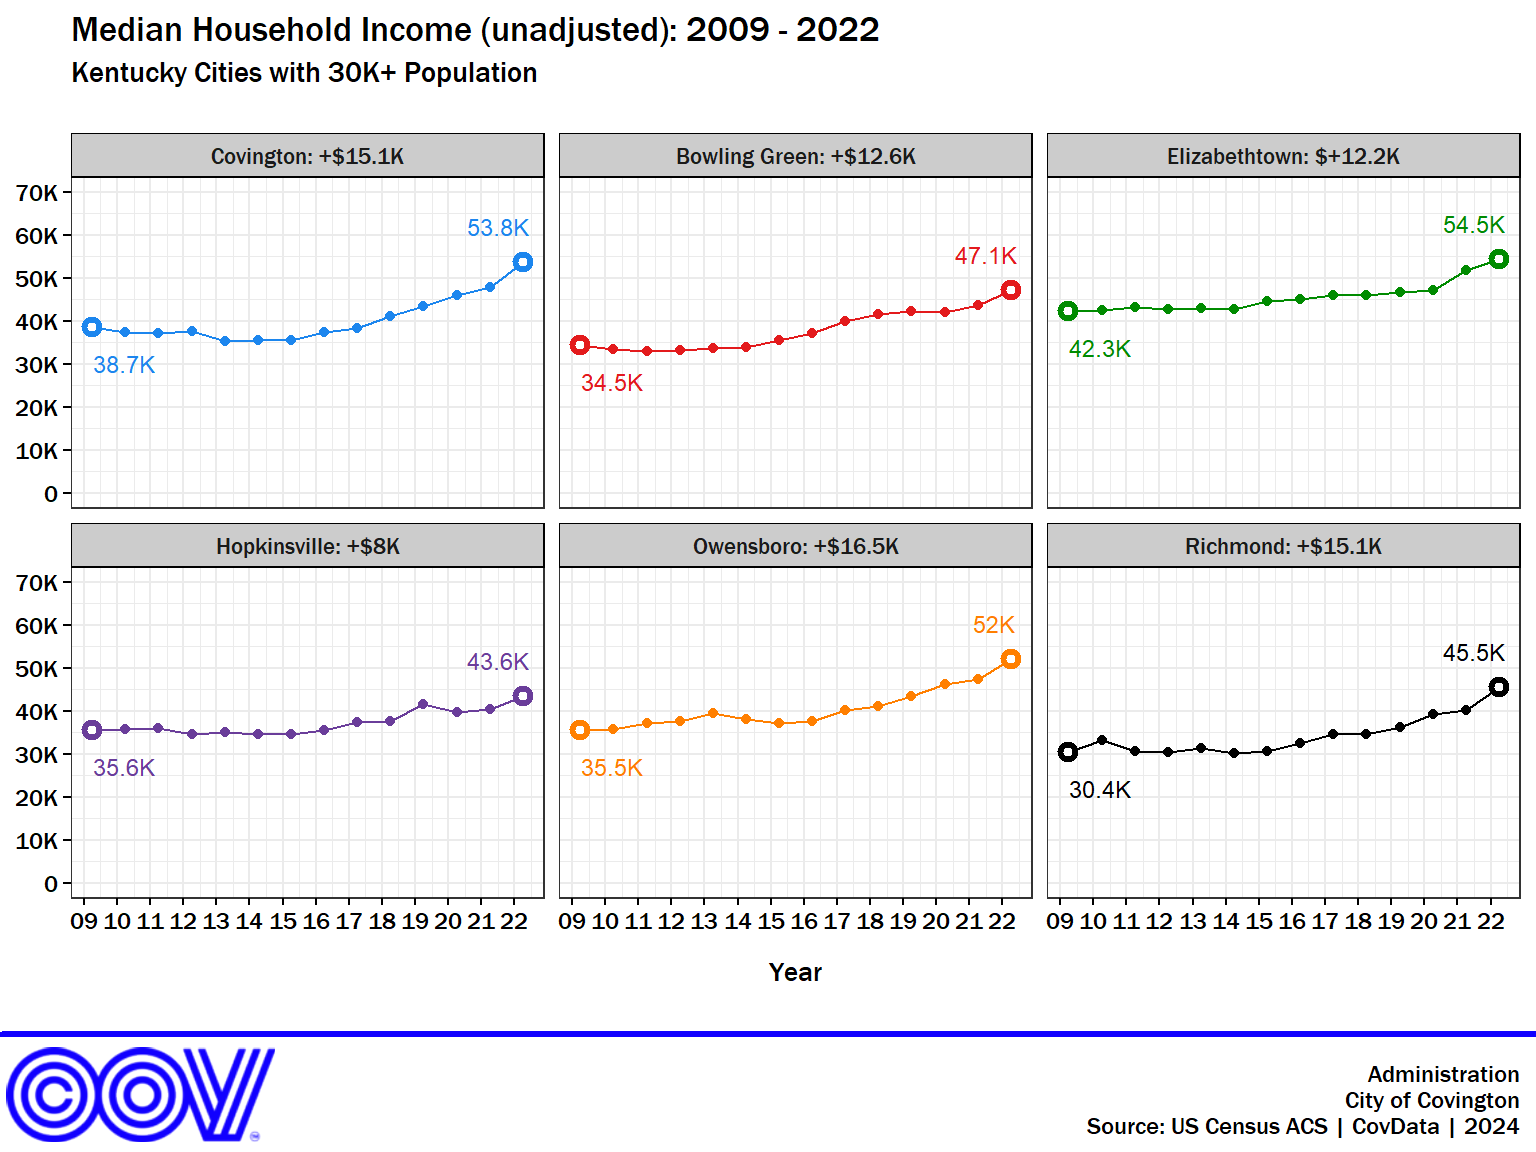
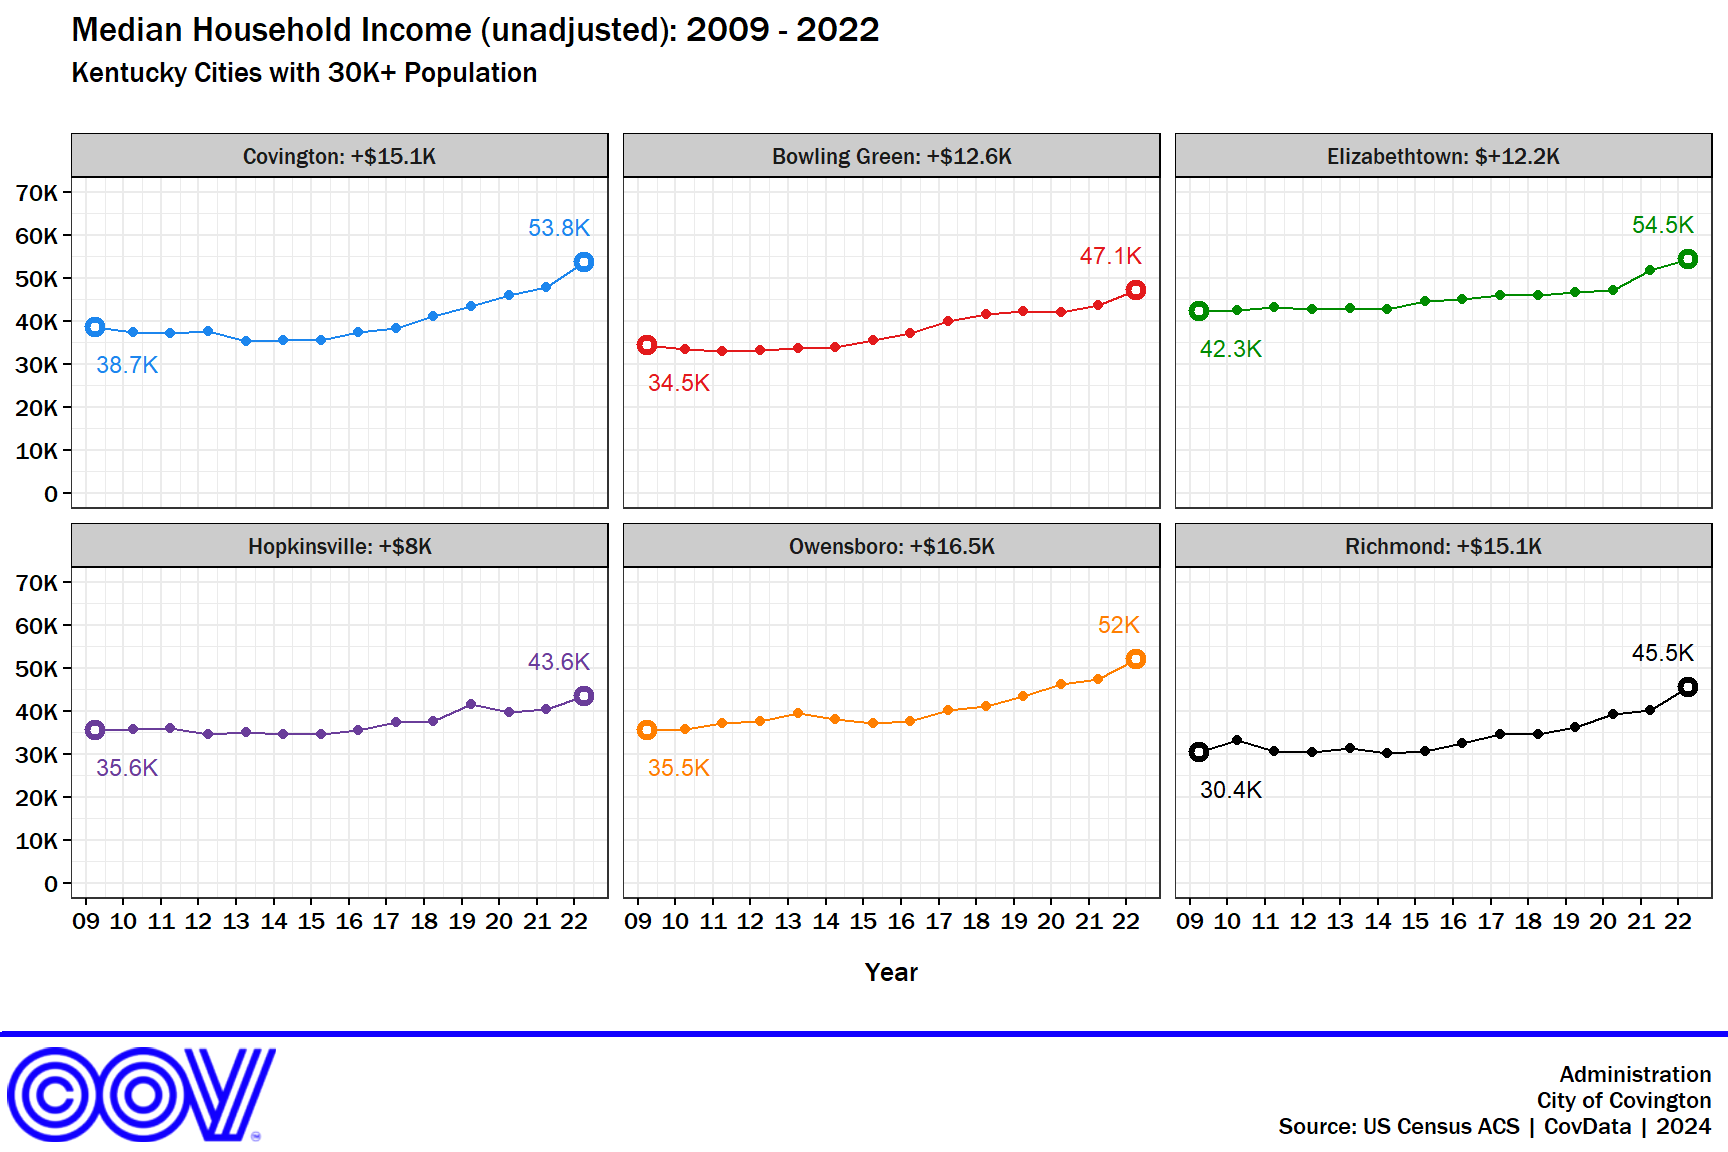
median income

diff --git a/post/2024-03-18-covington-median-household-income-2009-2022/index.html b/post/2024-03-18-covington-median-household-income-2009-2022/index.html
@@ -274,7 +274,7 @@ if (!doNotTrack) {
 
 <p>Household income is defined as the total gross income before taxes that is received within a 12-month period by all members of a household, aged 15 or older, including spouses, their dependents, and non-relatives. Household income is a valuable measure of the relative economic well-being of a city. This post looks briefly at the median household income in Covington, and other Kentucky cities of similar size, from 2009 to 2022. Data comes from the American Community Survey (ACS) from the U.S. Census Bureau.</p>
 <p>The median household income in Covington in 2009 was $38.7 thousand. By 2022, the median household income had grown to $53.8 thousand–an increase of $15.1 thousand. Other Kentucky cities, including Bowling Green, Elizabethtown, Hopkinsville, Owensboro, and Richmond, also experienced growth in the median household income over the thirteen year period.</p>
-<p><img src="../../post/2024-03-18-covington-median-household-income-2009-2022/index.en_files/figure-html/unnamed-chunk-1-1.png" width="768" /></p>
+<p><img src="../../post/2024-03-18-covington-median-household-income-2009-2022/index.en_files/figure-html/unnamed-chunk-1-1.png" width="864" /></p>
 
 
         
